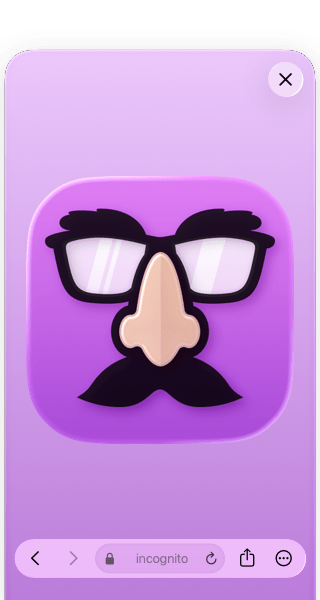
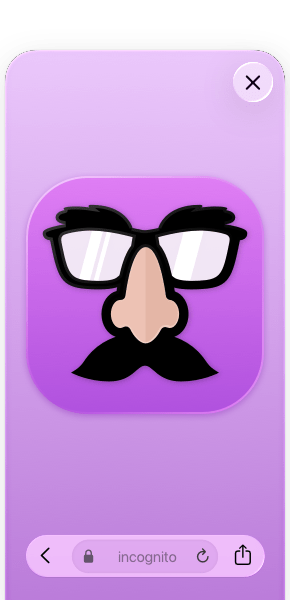
nice rounding

diff --git a/incognito/incognito.css b/incognito/incognito.css
@@ -9358,14 +9358,17 @@ h4, .h4 {
   color: #495057; }
 
 .phone {
-  border-radius: 2rem !important;
+  background: black;
+  display: inline-block;
   padding: 12px;
-  background: gray;
-  box-shadow: inset 0 0 0 12px black;
-  display: inline-block; }
+  clip-path: inset(0 round calc(12.24137931% + 12px)/calc(5.916666667% + 12px)); }
   .phone div {
-    clip-path: inset(0px round calc(2rem - 12px)); }
-
+    background: gray;
+    clip-path: inset(0px round 12.24137931%/5.916666667%); }
+  @media (max-width: 575.98px) {
+    .phone {
+      padding: 8px;
+      clip-path: inset(0 round calc(12.24137931% + 8px)/calc(5.916666667% + 8px)); } }
 .slideIn {
   /* Initial state is defined in the keyframes */
   animation: slideIn 0.4s ease-out forwards; }

diff --git a/incognito/incognito.scss b/incognito/incognito.scss
@@ -143,15 +143,19 @@ h4 {
 }
 
 .phone {
-	border-radius: 2rem !important;
-	padding: 12px;
-	background: gray;
-	// border: inset black 10px;
-	box-shadow: inset 0 0 0 12px black;
+	background: black;
 	display: inline-block;
+	padding: 12px;
+	clip-path: inset(0 round calc(12.24137931% + 12px) / calc(5.916666667% + 12px));
 	
 	div {
-		clip-path: inset(0px round calc(2rem - 12px));
+		background: gray;
+		clip-path: inset(0px round 12.24137931% / 5.916666667%);
+	}
+	
+	@include media-breakpoint-only(xs) {
+		padding: 8px;
+		clip-path: inset(0 round calc(12.24137931% + 8px) / calc(5.916666667% + 8px));
 	}
 }
 

diff --git a/incognito/index.html b/incognito/index.html
@@ -227,7 +227,7 @@
       <header>
         <div class="row align-items-center">
           <div class="col-sm-5 mx-auto">
-            <div class="phone float-end">
+            <div class="phone float-sm-end mb-sm-0 mb-5">
               <div>
                 <img alt="Screenshot of Incognito browser popped-up inside another app." class="slideIn img-fluid" src="intro@2x.png" srcset="intro@1x.png 1x, intro@2x.png 2x">
               </div>
